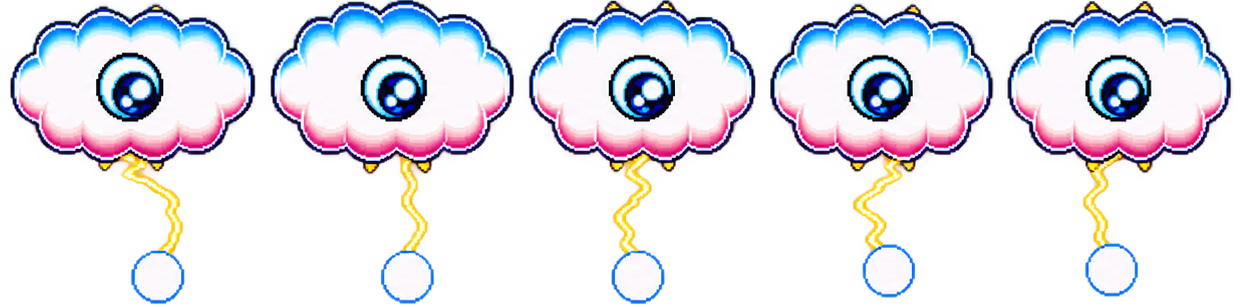
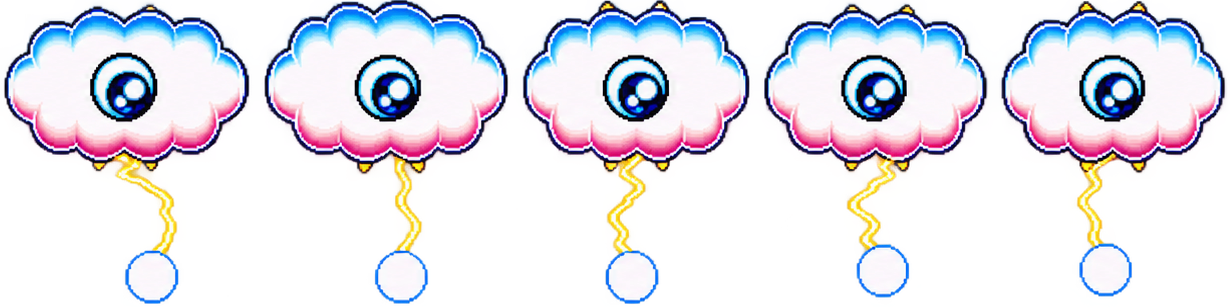
Added background and changed character movements

diff --git a/main.cpp b/main.cpp
@@ -1,10 +1,31 @@
+/**
+
+* Author: Ren Liao
+
+* Assignment: Pong Clone
+
+* Date due: [10/05/2026]
+
+* I pledge that I have completed this assignment without
+
+* collaborating with anyone else, in conformance with the
+
+* NYU School of Engineering Policies and Procedures on
+
+* Academic Misconduct.
+
+**/
+
 #include "raylib.h"
 #include <iostream>
+#include <math.h>
+
 using namespace std;
 // Enums
 enum AppStatus { TERMINATED, RUNNING };
 enum KrackoTypes {ONE, TWO, THREE, FOUR, FIVE};
 enum KirbyFly {UP, DOWN};
+//enum Direction {TOP, BOTTOM};
 
 // Global Constants
 constexpr int SCREEN_WIDTH  = 800 * 1.5f,
@@ -13,17 +34,20 @@ constexpr int SCREEN_WIDTH  = 800 * 1.5f,
               SIZE          = 100,
               OFFSET_FROM_BORDER= 100,
               KRACKO_FRAME_LIMIT = 500.0f,
-              KIRBY_FLY_FRAME_LIMIT = 600.0f;
+              KIRBY_FLY_FRAME_LIMIT = 400.0f,
+              LIMIT_KRACKO_ANGLE = 20.0f;
 constexpr Vector2 ORIGIN      = { SCREEN_WIDTH / 2, SCREEN_HEIGHT / 2 };
 constexpr Vector2 BASE_SIZE   = { static_cast<float>(SIZE), static_cast<float>(SIZE) };
 constexpr Vector2 BOTTOM_LEFT = {0.0f, SCREEN_HEIGHT };
-constexpr Vector2 TOP_LEFT = { 0.0f, 0.0f };
+constexpr Vector2 TOP_RIGHT = { SCREEN_WIDTH, 0.0f };
 
 
 // images found from spriters-resource.com - all characters from Kirby games (don't sue me please)
 constexpr char KIRBY_STANDING[] = "assets/kirby_standing.png";
 constexpr char KRACKO[] = "assets/kracko.png";
 constexpr char KIRBY_FLY[] = "assets/kirby_fly.png";
+constexpr char SKY_BACKGROUND[] = "assets/kirby_sky.png";
+constexpr char STAR[] = "assets/kirby_star.png";
 
 // Global Variables
 AppStatus gAppStatus = RUNNING;
@@ -32,8 +56,11 @@ float gAngle = 0.0f;
 Vector2 gPositionKirby = BOTTOM_LEFT;
 Vector2 gPositionOrigin = ORIGIN;
 Vector2 gScale = BASE_SIZE;
-Vector2 gPositionKracko = TOP_LEFT;
+Vector2 gPositionKracko = TOP_RIGHT;
 Vector2 gPositionKirbyFly = ORIGIN;
+Vector2 gPositionKrackoCircular = TOP_RIGHT;
+Vector2 gPositionStar = ORIGIN;
+//Direction gDirection = BOTTOM;
 
 float gPreviousTicks = 0.0f;
 int krackoFrames = 0;
@@ -43,10 +70,14 @@ bool isKirbyWalk = true;
 bool isKirbyFly = false;
 bool isKrackoCircular = false;
 
+float gOrbitAngle = 0.0f;
+
 
 Texture2D gKirbyStandingTexture;
 Texture2D gKrackoTexture;
 Texture2D gKirbyFlyTexture;
+Texture2D gBackgroundTexture;
+Texture2D gStarTexture;
 
 KrackoTypes kracko;
 KirbyFly kirbyFly;
@@ -65,6 +96,9 @@ void initialize() {
     gKirbyStandingTexture = LoadTexture(KIRBY_STANDING);
     gKrackoTexture = LoadTexture(KRACKO);
     gKirbyFlyTexture = LoadTexture(KIRBY_FLY);
+    gBackgroundTexture = LoadTexture(SKY_BACKGROUND);
+    gStarTexture = LoadTexture(STAR);
+    //cout << "Exists: " << FileExists(SKY_BACKGROUND) << '\n';
 }
 
 void processInput() {
@@ -76,17 +110,22 @@ void update() {
     float deltaTime = ticks - gPreviousTicks;
     gPreviousTicks = ticks;
 
-    if (gPositionKracko.y < SCREEN_HEIGHT / 2.0f - 100.0f) {
-        gPositionKracko.y += 0.05f;
-    }else {
-        if (gPositionKracko.x < SCREEN_WIDTH / 2.0f - 100.0f) gPositionKracko.x += 0.05f;
-        else {
-            if (!isKrackoCircular) {
-                isKrackoCircular = true;
-            }
-        }
-        if (gPositionKirby.x < SCREEN_WIDTH / 2.0f) { //once kirby gets to the middle of the screen, he starts flying
-            gPositionKirby.x += 0.09f;
+    if (gPositionKracko.y < SCREEN_HEIGHT / 2.0f - 150.0f) {
+        gPositionKracko.y += 50.0f*deltaTime;
+    }
+    if (gPositionKracko.x > SCREEN_WIDTH / 2.0f + 100.0f) gPositionKracko.x -= 80.0f*deltaTime;
+       else {
+           //gOrbitAngle = fmod((gOrbitAngle + 0.8f), 360.0f);
+             if (!isKrackoCircular) {
+                 isKrackoCircular = true;
+                 gPositionKrackoCircular = gPositionKracko;
+             }
+
+       }
+        if (gPositionKirby.x < 200.0f) { //start flying after walking for a bit
+            gPositionKirby.x += 90.0f * deltaTime;
+           // float oppositeKirby = SCREEN_WIDTH - gPositionKirby.x;
+           // gPositionKracko.x = oppositeKirby -= 0.05f ; //kracko follows kirby
         }else {
             if (isKirbyWalk == true) isKirbyWalk = false;
             if (!isKirbyFly) {
@@ -97,12 +136,12 @@ void update() {
             }
 
         }
-    }
+
 
     if (isKirbyFly) {
        // cout << "previous y: " << gPositionKirbyFly.y << endl;
-        if (gPositionKirbyFly.y > OFFSET_FROM_BORDER) gPositionKirbyFly.y -= 0.05f;
-        if (gPositionKirbyFly.x < SCREEN_WIDTH - OFFSET_FROM_BORDER) gPositionKirbyFly.x += 0.05f;
+        if (gPositionKirbyFly.y > 3 * OFFSET_FROM_BORDER) gPositionKirbyFly.y -= 80.0f * deltaTime;
+        if (gPositionKirbyFly.x < SCREEN_WIDTH / 2.0f - 150.0) gPositionKirbyFly.x += 50.0f * deltaTime;
 
        // cout << gPositionKirbyFly.y << endl;
         kirbyFlyFrames ++;
@@ -120,8 +159,15 @@ void update() {
     }
 
     if (isKrackoCircular) {
+        gOrbitAngle = fmod((gOrbitAngle + 0.005f), 360.0f);
+        float radius = 25.0f;
+        gPositionKracko = {
+            cosf(gOrbitAngle)*radius + gPositionKrackoCircular.x,
+            sinf(gOrbitAngle)*radius + gPositionKrackoCircular.y
+        };
 
     }
+
     krackoFrames++;
     if (krackoFrames == KRACKO_FRAME_LIMIT) {
         if (kracko == ONE) kracko = TWO;
@@ -140,7 +186,17 @@ void render() {
     ClearBackground(RAYWHITE);
 
     Vector2 objectOrigin = {gScale.x / 2.0f, gScale.y / 2.0f};
-
+ //   Vector2 backgroundOrigin = {gScale.x * 100.0f, gScale.y * 100.0f};
+    Rectangle textureAreaBackground = {
+        0.0f, 0.0f,
+        static_cast<float>(gBackgroundTexture.width),
+        static_cast<float>(gBackgroundTexture.height),
+    };
+    Rectangle destinationAreaBackground = {
+        0.0f, 0.0f,
+        gScale.x*15.0f, gScale.y*7.0f
+    };
+    DrawTexturePro(gBackgroundTexture, textureAreaBackground, destinationAreaBackground, objectOrigin, gAngle, WHITE);
     if (isKirbyWalk){
         Rectangle textureAreaKirby = {
             0.0f, 0.0f,
@@ -158,6 +214,7 @@ void render() {
 
     }
 
+
     if (isKirbyFly) {
         float kirbyX = 0.0f, kirbyY = 0.0f;
 
@@ -169,13 +226,27 @@ void render() {
             static_cast<float>(gKirbyFlyTexture.height)
         };
         Rectangle destinationAreaKirbyFly = {
-            gPositionKirbyFly.x, gPositionKirbyFly.y - OFFSET_FROM_BOTTOM,
+            gPositionKirbyFly.x, gPositionKirbyFly.y - OFFSET_FROM_BORDER,
             gScale.x, gScale.y
         };
 
         DrawTexturePro(gKirbyFlyTexture, textureAreaKirbyFly,
             destinationAreaKirbyFly, objectOrigin, gAngle, WHITE);
+
+        Rectangle textureAreaStar = {
+            0.0f, 0.0f,
+             static_cast<float>(gStarTexture.width),
+             static_cast<float>(gStarTexture.height)
+         };
+
+        Rectangle destinationAreaStar = {
+            gPositionKirbyFly.x, gPositionKirbyFly.y,
+            gScale.x, gScale.y
+        };
+        DrawTexturePro(gStarTexture, textureAreaStar, destinationAreaStar, objectOrigin, gAngle, WHITE);
     }
+
+
     float krackoX = 0.0f, krackoY = 0.0f,
             krackoWidth = static_cast<float>(gKrackoTexture.width) / 5.0f;
 
